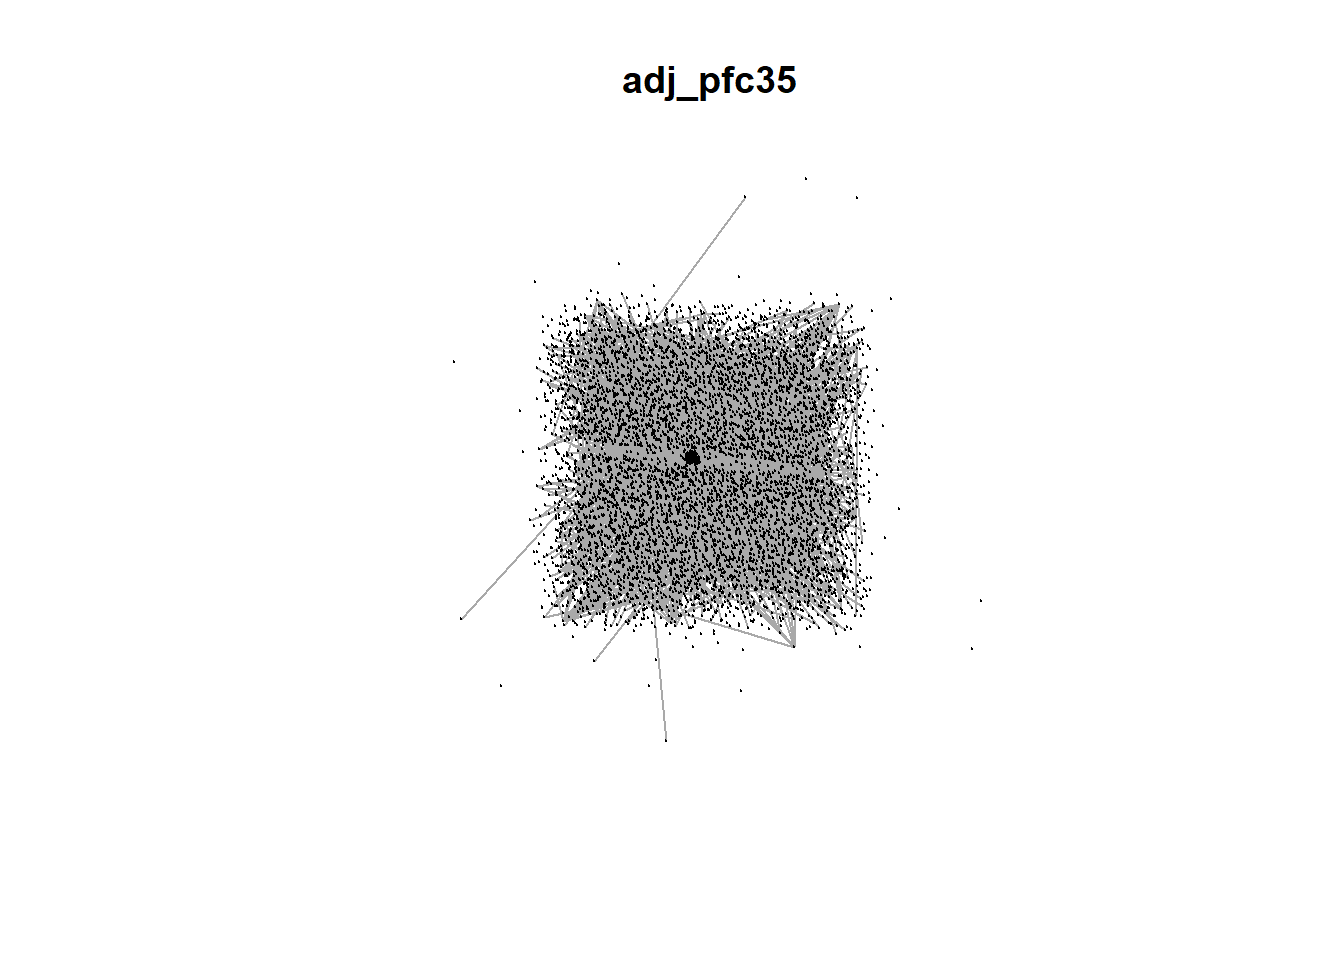
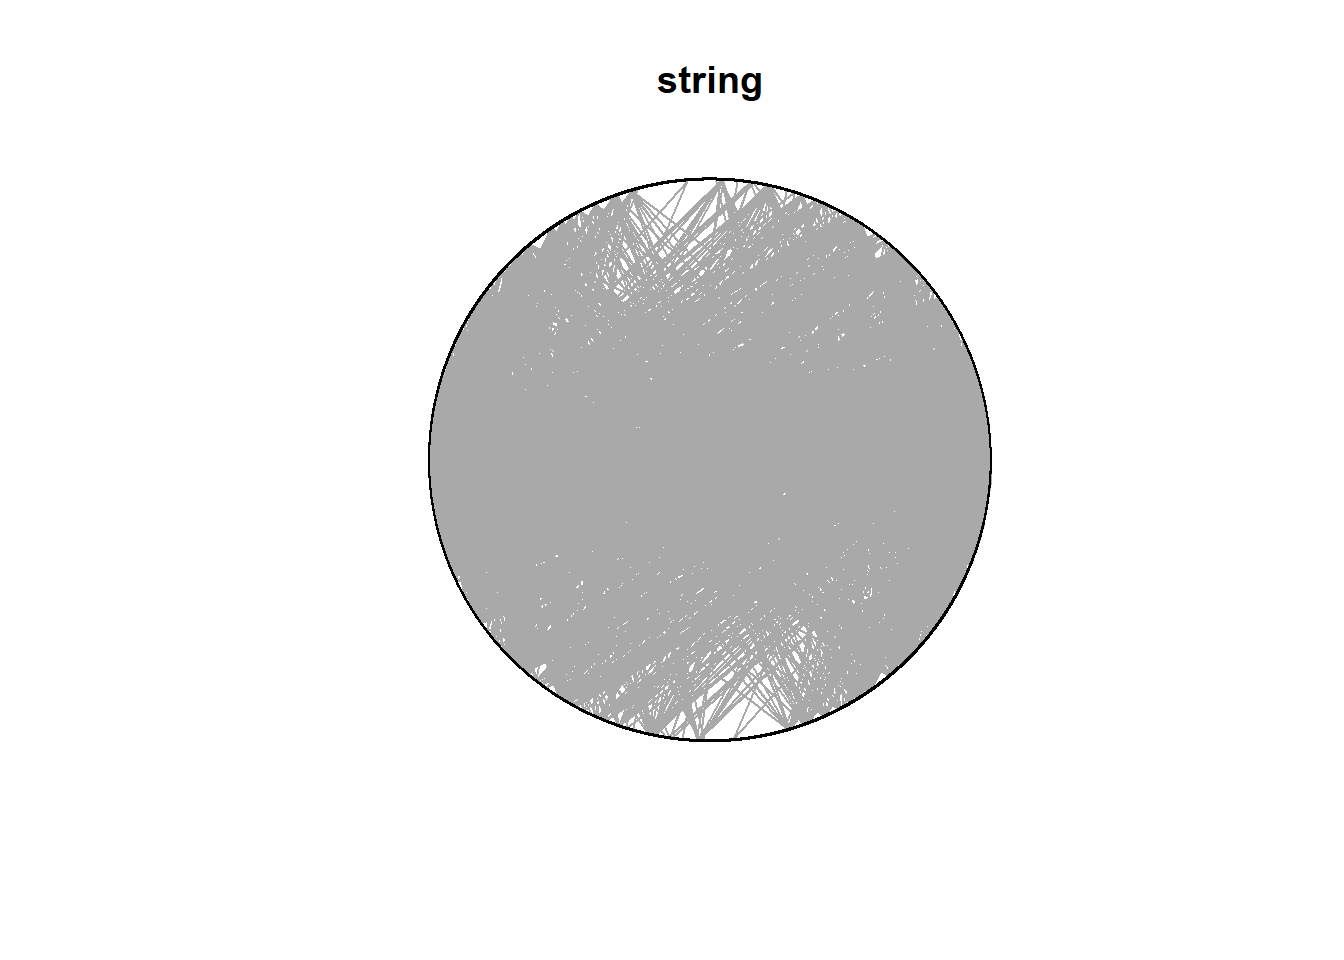
9/27/2024

Changed region(s): [[0.3125, 0.1875, 0.75, 0.7812], [0.4688, 0.0625, 0.5938, 0.125]]

diff --git a/docs/dawn_algorithm.html b/docs/dawn_algorithm.html
@@ -534,15 +534,15 @@ project makes it easier to run your code on other machines.</p>
 <div class="panel panel-default">
 <div class="panel-heading">
 <p class="panel-title">
-<a data-toggle="collapse" data-parent="#workflowr-checks" href="#strongRepositoryversionstrongahrefhttpsgithubcomhan16IntegratePPItreec1eb811b2ed31c45ed36f95b01cfd51ded87fa2ftargetblankc1eb811a">
+<a data-toggle="collapse" data-parent="#workflowr-checks" href="#strongRepositoryversionstrongahrefhttpsgithubcomhan16IntegratePPItreea55f668a8dc42c2312cc575ca89d956d6e003f7etargetblanka55f668a">
 <span class="glyphicon glyphicon-ok text-success"
 aria-hidden="true"></span> <strong>Repository version:</strong>
-<a href="https://github.com/han16/IntegratePPI/tree/c1eb811b2ed31c45ed36f95b01cfd51ded87fa2f" target="_blank">c1eb811</a>
+<a href="https://github.com/han16/IntegratePPI/tree/a55f668a8dc42c2312cc575ca89d956d6e003f7e" target="_blank">a55f668</a>
 </a>
 </p>
 </div>
 <div
[2 lines of base64/hex data omitted]
 class="panel-collapse collapse">
 <div class="panel-body">
 <p>
@@ -552,7 +552,7 @@ reproducibility.
 </p>
 <p>
 The results in this page were generated with repository version
-<a href="https://github.com/han16/IntegratePPI/tree/c1eb811b2ed31c45ed36f95b01cfd51ded87fa2f" target="_blank">c1eb811</a>.
+<a href="https://github.com/han16/IntegratePPI/tree/a55f668a8dc42c2312cc575ca89d956d6e003f7e" target="_blank">a55f668</a>.
 See the <em>Past versions</em> tab to see a history of the changes made
 to the R Markdown and HTML files.
 </p>
@@ -568,7 +568,6 @@ were generated:
 <pre><code>
 Ignored files:
     Ignored:    analysis/.Rhistory
-    Ignored:    analysis/figure/
     Ignored:    analysis/string_cache/
 
 Unstaged changes:
@@ -618,6 +617,40 @@ Message
 </tr>
 </thead>
 <tbody>
+<tr>
+<td>
+Rmd
+</td>
+<td>
+<a href="https://github.com/han16/IntegratePPI/blob/a55f668a8dc42c2312cc575ca89d956d6e003f7e/analysis/dawn_algorithm.Rmd" target="_blank">a55f668</a>
+</td>
+<td>
+han
+</td>
+<td>
+2024-09-27
+</td>
+<td>
+9/27/2024
+</td>
+</tr>
+<tr>
+<td>
+html
+</td>
+<td>
+<a href="https://rawcdn.githack.com/han16/IntegratePPI/a55f668a8dc42c2312cc575ca89d956d6e003f7e/docs/dawn_algorithm.html" target="_blank">a55f668</a>
+</td>
+<td>
+han
+</td>
+<td>
+2024-09-27
+</td>
+<td>
+9/27/2024
+</td>
+</tr>
 <tr>
 <td>
 Rmd
@@ -835,6 +868,7 @@ set.seed(10)
 fdr_cutoff &lt;- 0.01
 pthres &lt;- 0.05
 library(statnet)  # use network function 
+library(ggpubr)  # combine two graphs 
 #####
 load(&quot;C:\\han\\Projects\\Multi_Omics\\data_in_MOBS\\screen_res.RData&quot;)  # dat_list needs to be in screen_res.RData not in data_preparation.RData
 source(&quot;C:\\han\\Projects\\Multi_Omics\\data_in_MOBS\\graphicalModel.r&quot;)
@@ -1099,12 +1133,93 @@ max_value=max(Coords[,1:2], new_Coords[,2:3])
 
 
 
-string_incidence_igraph%&gt;% 
-  plot(.,vertex.size=.8, edge.arrow.size=.4, vertex.label = NA, layout = as.matrix(Coords[,1:2]),rescale=F, xlim=c(min_value,max_value),ylim=c(min_value,max_value), main=&quot;string&quot;)</code></pre>
+g3=string_incidence_igraph%&gt;% 
+  plot(.,vertex.size=.8, edge.arrow.size=.4, vertex.label = NA, layout = as.matrix(Coords[,1:2]), rescale=F, xlim=c(min_value,max_value),ylim=c(min_value,max_value), main=&quot;string&quot;)  </code></pre>
 <p><img src="figure/dawn_algorithm.Rmd/unnamed-chunk-7-1.png" width="672" style="display: block; margin: auto;" /></p>
-<pre class="r"><code>adj_pfc35_igraph%&gt;% 
-  plot(.,vertex.size=.8, edge.arrow.size=.4, vertex.label = NA, layout = as.matrix(new_Coords[,2:3]),rescale=F, xlim=c(min_value-10,max_value+10),ylim=c(min_value,max_value), main=&quot;adj_pfc35&quot;)</code></pre>
+<p>
+<button type="button" class="btn btn-default btn-xs btn-workflowr btn-workflowr-fig" data-toggle="collapse" data-target="#fig-unnamed-chunk-7-1">
+Past versions of unnamed-chunk-7-1.png
+</button>
+</p>
+<div id="fig-unnamed-chunk-7-1" class="collapse">
+<div class="table-responsive">
+<table class="table table-condensed table-hover">
+<thead>
+<tr>
+<th>
+Version
+</th>
+<th>
+Author
+</th>
+<th>
+Date
+</th>
+</tr>
+</thead>
+<tbody>
+<tr>
+<td>
+<a href="https://github.com/han16/IntegratePPI/blob/a55f668a8dc42c2312cc575ca89d956d6e003f7e/docs/figure/dawn_algorithm.Rmd/unnamed-chunk-7-1.png" target="_blank">a55f668</a>
+</td>
+<td>
+han
+</td>
+<td>
+2024-09-27
+</td>
+</tr>
+</tbody>
+</table>
+</div>
+</div>
+<pre class="r"><code>g1=string_incidence_igraph%&gt;% 
+  plot(.,vertex.size=.8, edge.arrow.size=.4, vertex.label = NA, layout = layout.circle, rescale=F, main=&quot;string&quot;)</code></pre>
 <p><img src="figure/dawn_algorithm.Rmd/unnamed-chunk-7-2.png" width="672" style="display: block; margin: auto;" /></p>
+<p>
+<button type="button" class="btn btn-default btn-xs btn-workflowr btn-workflowr-fig" data-toggle="collapse" data-target="#fig-unnamed-chunk-7-2">
+Past versions of unnamed-chunk-7-2.png
+</button>
+</p>
+<div id="fig-unnamed-chunk-7-2" class="collapse">
+<div class="table-responsive">
+<table class="table table-condensed table-hover">
+<thead>
+<tr>
+<th>
+Version
+</th>
+<th>
+Author
+</th>
+<th>
+Date
+</th>
+</tr>
+</thead>
+<tbody>
+<tr>
+<td>
+<a href="https://github.com/han16/IntegratePPI/blob/a55f668a8dc42c2312cc575ca89d956d6e003f7e/docs/figure/dawn_algorithm.Rmd/unnamed-chunk-7-2.png" target="_blank">a55f668</a>
+</td>
+<td>
+han
+</td>
+<td>
+2024-09-27
+</td>
+</tr>
+</tbody>
+</table>
+</div>
+</div>
+<pre class="r"><code>g4=adj_pfc35_igraph%&gt;% 
+  plot(.,vertex.size=.8, edge.arrow.size=.4, vertex.label = NA, layout = as.matrix(new_Coords[,2:3]),rescale=F, xlim=c(min_value-10,max_value+10),ylim=c(min_value,max_value), main=&quot;adj_pfc35&quot;)</code></pre>
+<p><img src="figure/dawn_algorithm.Rmd/unnamed-chunk-7-3.png" width="672" style="display: block; margin: auto;" /></p>
+<pre class="r"><code>g2=adj_pfc35_igraph%&gt;% 
+  plot(.,vertex.size=.8, edge.arrow.size=.4, vertex.label = NA, layout = layout.circle, rescale=F,  main=&quot;adj_pfc35&quot;)</code></pre>
+<p><img src="figure/dawn_algorithm.Rmd/unnamed-chunk-7-4.png" width="672" style="display: block; margin: auto;" /></p>
+<pre class="r"><code>combine_plot1=ggarrange(g1, g2,nrow=1)</code></pre>
 <br>
 <p>
 <button type="button" class="btn btn-default btn-workflowr btn-workflowr-sessioninfo" data-toggle="collapse" data-target="#workflowr-sessioninfo" style="display: block;">
@@ -1135,32 +1250,38 @@ attached base packages:
 [1] stats     graphics  grDevices utils     datasets  methods   base     
 
 other attached packages:
- [1] dplyr_1.1.4           igraph_2.0.3          statnet_2019.6       
- [4] tsna_0.3.5            sna_2.7-2             statnet.common_4.9.0 
- [7] ergm.count_4.1.1      tergm_4.2.0           networkDynamic_0.11.4
-[10] ergm_4.6.0            network_1.18.2       
+ [1] dplyr_1.1.4           igraph_2.0.3          ggpubr_0.6.0         
+ [4] ggplot2_3.5.1         statnet_2019.6        tsna_0.3.5           
+ [7] sna_2.7-2             statnet.common_4.9.0  ergm.count_4.1.1     
+[10] tergm_4.2.0           networkDynamic_0.11.4 ergm_4.6.0           
+[13] network_1.18.2       
 
 loaded via a namespace (and not attached):
- [1] generics_0.1.3           sass_0.4.9               utf8_1.2.4              
- [4] robustbase_0.99-2        stringi_1.8.4            lattice_0.22-6          
- [7] digest_0.6.35            magrittr_2.0.3           networkLite_1.0.5       
-[10] evaluate_0.23            lpSolveAPI_5.5.2.0-17.11 grid_4.4.0              
-[13] fastmap_1.1.1            rprojroot_2.0.4          workflowr_1.7.1         
-[16] jsonlite_1.8.8           Matrix_1.7-0             whisker_0.4.1           
-[19] rle_0.9.2                promises_1.3.0           purrr_1.0.2             
-[22] fansi_1.0.6              jquerylib_0.1.4          Rdpack_2.6              
-[25] cli_3.6.2                rlang_1.1.3              rbibutils_2.2.16        
-[28] cachem_1.0.8             yaml_2.3.8               tools_4.4.0             
-[31] parallel_4.4.0           memoise_2.0.1            coda_0.19-4.1           
-[34] httpuv_1.6.15            vctrs_0.6.5              R6_2.5.1                
-[37] lifecycle_1.0.4          git2r_0.33.0             stringr_1.5.1           
-[40] fs_1.6.4                 trust_0.1-8              MASS_7.3-60.2           
-[43] pkgconfig_2.0.3          pillar_1.9.0             bslib_0.7.0             
-[46] later_1.3.2              ergm.multi_0.2.1         glue_1.7.0              
-[49] Rcpp_1.0.12              highr_0.10               tidyselect_1.2.1        
-[52] DEoptimR_1.1-3           xfun_0.43                tibble_3.2.1            
-[55] rstudioapi_0.16.0        knitr_1.46               nlme_3.1-164            
-[58] htmltools_0.5.8.1        rmarkdown_2.26           compiler_4.4.0          </code></pre>
+ [1] gtable_0.3.5             networkLite_1.0.5        xfun_0.43               
+ [4] bslib_0.7.0              rstatix_0.7.2            ergm.multi_0.2.1        
+ [7] rle_0.9.2                lattice_0.22-6           vctrs_0.6.5             
+[10] tools_4.4.0              Rdpack_2.6               generics_0.1.3          
+[13] parallel_4.4.0           tibble_3.2.1             fansi_1.0.6             
+[16] highr_0.10               DEoptimR_1.1-3           pkgconfig_2.0.3         
+[19] Matrix_1.7-0             lifecycle_1.0.4          compiler_4.4.0          
+[22] stringr_1.5.1            git2r_0.33.0             munsell_0.5.1           
+[25] carData_3.0-5            httpuv_1.6.15            htmltools_0.5.8.1       
+[28] sass_0.4.9               yaml_2.3.8               car_3.1-2               
+[31] tidyr_1.3.1              later_1.3.2              pillar_1.9.0            
+[34] jquerylib_0.1.4          whisker_0.4.1            MASS_7.3-60.2           
+[37] cachem_1.0.8             abind_1.4-5              trust_0.1-8             
+[40] nlme_3.1-164             robustbase_0.99-2        tidyselect_1.2.1        
+[43] digest_0.6.35            stringi_1.8.4            purrr_1.0.2             
+[46] cowplot_1.1.3            rprojroot_2.0.4          fastmap_1.1.1           
+[49] grid_4.4.0               colorspace_2.1-0         cli_3.6.2               
+[52] magrittr_2.0.3           utf8_1.2.4               broom_1.0.5             
+[55] withr_3.0.0              backports_1.4.1          scales_1.3.0            
+[58] promises_1.3.0           rmarkdown_2.26           ggsignif_0.6.4          
+[61] workflowr_1.7.1          coda_0.19-4.1            memoise_2.0.1           
+[64] lpSolveAPI_5.5.2.0-17.11 evaluate_0.23            knitr_1.46              
+[67] rbibutils_2.2.16         rlang_1.1.3              Rcpp_1.0.12             
+[70] glue_1.7.0               rstudioapi_0.16.0        jsonlite_1.8.8          
+[73] R6_2.5.1                 fs_1.6.4                </code></pre>
 </div>
 
 
